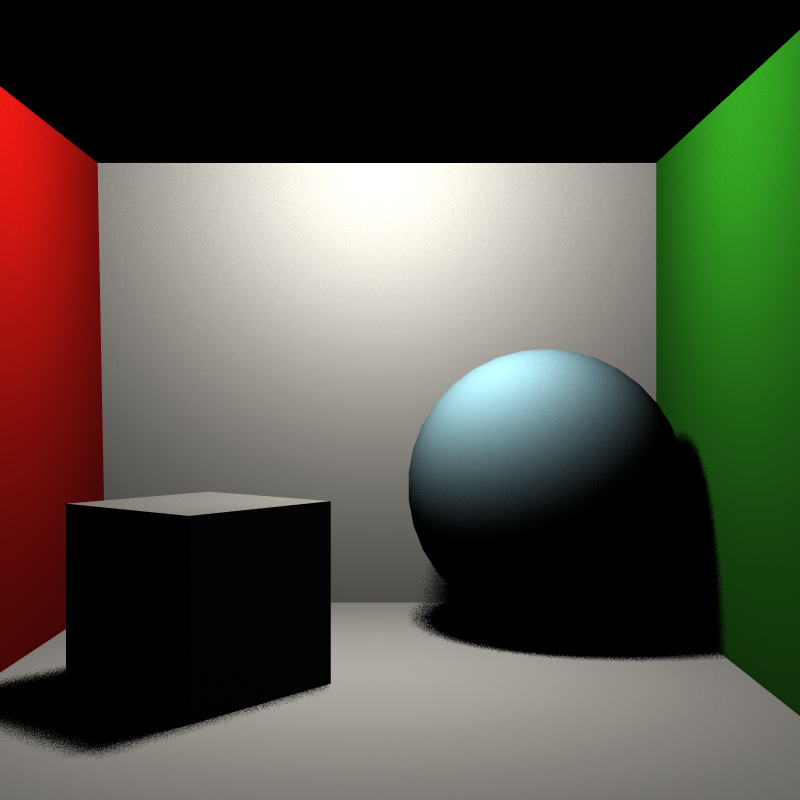
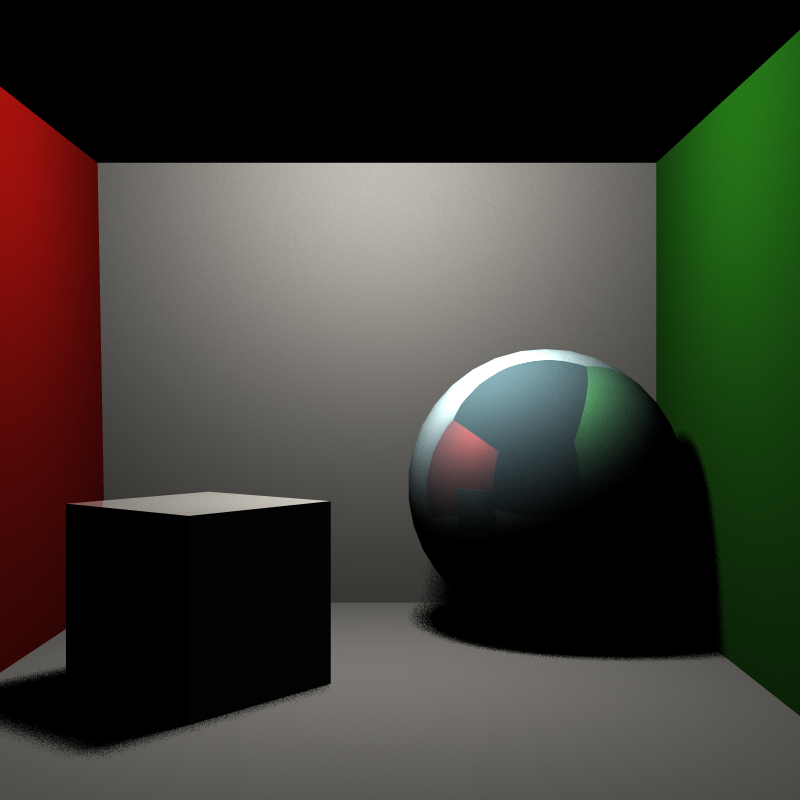
feat: add reflections to UsdPreviewSurface

diff --git a/src/crayg/src/scene/UsdPreviewSurface.cpp b/src/crayg/src/scene/UsdPreviewSurface.cpp
@@ -11,10 +11,17 @@ UsdPreviewSurface::UsdPreviewSurface(const std::string &name, const Color &diffu
     : Material(name), diffuseColor(diffuseColor) {}
 
 Color UsdPreviewSurface::evaluate(const SurfaceInteraction &surfaceInteraction, IntegratorContext &integratorContext) {
-    return diffuseColor;
+    const Ray reflectionRay = surfaceInteraction.spawnReflectionRayFromSurface();
+    return diffuseColor + getReflectivity() * integratorContext.integrateRay(reflectionRay);
 }
 std::string UsdPreviewSurface::getType() {
     return "UsdPreviewSurface";
+}
+Color UsdPreviewSurface::getReflectivity() const {
+    if (useSpecularWorkflow) {
+        return specularColor;
+    }
+    return Color::createGrey(metallic);
 }
 
 }

diff --git a/src/crayg/src/scene/UsdPreviewSurface.h b/src/crayg/src/scene/UsdPreviewSurface.h
@@ -22,6 +22,7 @@ class UsdPreviewSurface : public Material {
     float opacity = 1;
     float opacityThreshold = 0;
     float ior = 1.5;
+    Color getReflectivity() const;
 };
 
 } // namespace crayg
